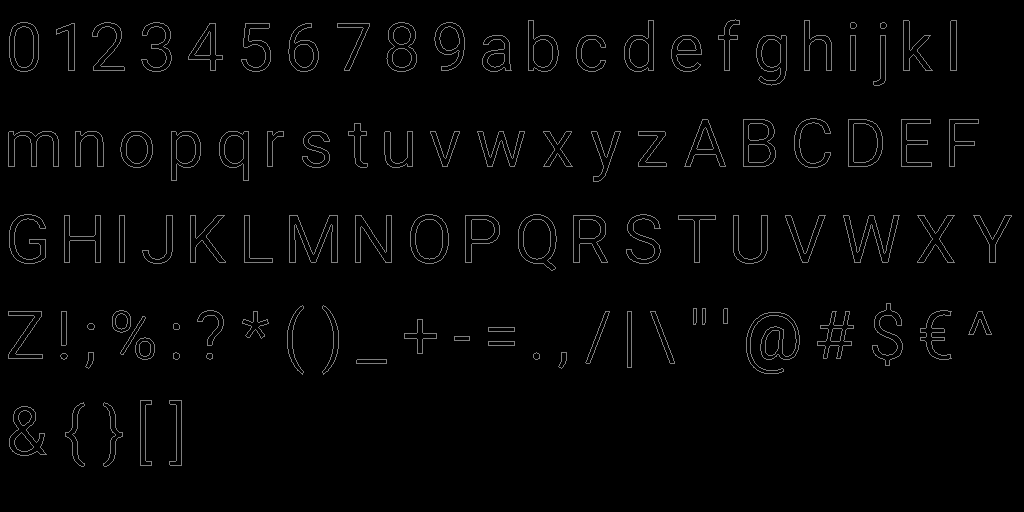
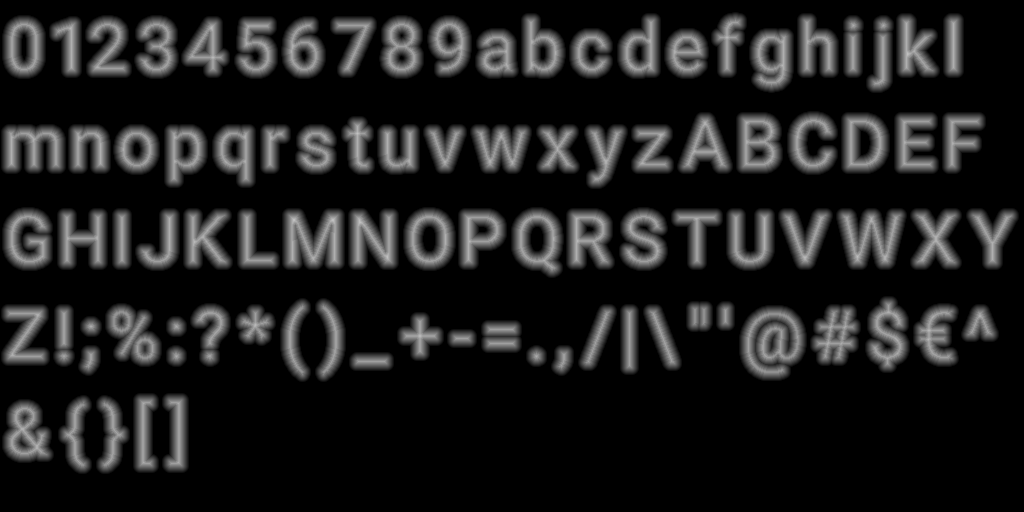
implement sdf font bitmap creation

diff --git a/src/graphics/font/sdf_bitmap.rs b/src/graphics/font/sdf_bitmap.rs
@@ -3,7 +3,7 @@ use std::collections::HashMap;
 use image::{DynamicImage, Luma, GrayImage};
 use rusttype::PositionedGlyph;
 
-use crate::{lz_core_warn, lz_core_err};
+use crate::{lz_core_warn, lz_core_err, math, lz_core_info};
 
 /// Signed distance field font bitmap
 pub struct SdfBitmap {
@@ -225,15 +225,19 @@ fn write_glyphs(
             register_bitmap_character(bitmap_characters, character, bitmap_builder, current_x, current_y, bitmap_width, bitmap_height, character_width, line_height);
 
             let glyph_buffer = create_glyph_binary_map(glyph, character_width as usize, character_height as usize, bitmap_builder);
+            let border_pixels: Vec<(usize, usize)> = get_border_pixels(&glyph_buffer);
 
             for x in 0..glyph_buffer.len() {
                 for y in 0..glyph_buffer[x].len() {
-                    if is_border_pixel(&glyph_buffer, x, y) {
-                        image_buffer.put_pixel(
-                            x as u32 + current_x,
-                            y as u32 + current_y + bounding_box.min.y as u32 - bitmap_builder.padding_y,
-                            Luma([127]),
-                        )
+                    match get_pixel_value(&glyph_buffer, &border_pixels, x, y, spread as f32) {
+                        Ok(v) => {
+                            image_buffer.put_pixel(
+                                x as u32 + current_x,
+                                y as u32 + current_y + bounding_box.min.y as u32 - bitmap_builder.padding_y,
+                                Luma([v]),
+                            )
+                        },
+                        Err(_) => (),
                     }
                 }
             }
@@ -296,4 +300,52 @@ fn create_glyph_binary_map(glyph: &PositionedGlyph<'_>, character_width: usize, 
     });
 
     glyph_pixels
+}
+
+fn get_distance_to_closest_border_pixel(border_pixels: &Vec<(usize, usize)>, target_x: usize, target_y: usize) -> f32 {
+    let mut closest: f32 = f32::MAX;
+
+    for coordinate in border_pixels.iter() {
+        let distance = math::distance(target_x, target_y, coordinate.0, coordinate.1);
+                
+        if distance < closest {
+            closest = distance;
+        }
+    }
+
+    closest
+}
+
+fn get_border_pixels(glyph_pixels: &Vec<Vec<bool>>) -> Vec<(usize, usize)> {
+    let mut result = vec![];
+    
+    for x in 0..glyph_pixels.len() {
+        for y in 0..glyph_pixels[x].len() {
+            if is_border_pixel(glyph_pixels, x, y) {
+                result.push((x, y));
+            }
+
+        }
+    }
+
+    result
+}
+
+fn get_pixel_value(glyph_pixels: &Vec<Vec<bool>>,  border_pixels: &Vec<(usize, usize)>, x: usize, y: usize, spread: f32) -> Result<u8, ()> {
+    if is_border_pixel(&glyph_pixels, x, y) {
+        return Ok(127);
+    } 
+
+    let distance = get_distance_to_closest_border_pixel(&border_pixels, x, y);
+
+    if distance > spread as f32 {
+        return Err(());
+    }
+
+    if glyph_pixels[x][y] {
+        return Ok(127 + (distance / spread as f32 * 128.0) as u8);
+    } else {
+        return Ok(127 - (distance / spread as f32 * 127.0) as u8);
+    }
+    
 }

diff --git a/src/math/math.rs b/src/math/math.rs
@@ -1,0 +1,6 @@
+pub fn distance(x1: usize, y1: usize, x2: usize, y2: usize) -> f32 {
+    let x = x1.abs_diff(x2) as f32;
+    let y = y1.abs_diff(y2) as f32;
+
+    (x.powi(2) + y.powi(2)).sqrt()
+}

diff --git a/src/main.rs b/src/main.rs
@@ -9,6 +9,7 @@ mod log;
 mod event;
 mod input;
 mod time;
+mod math;
 
 mod app;
 

diff --git a/src/math/mod.rs b/src/math/mod.rs
@@ -1,0 +1,3 @@
+mod math;
+
+pub use math::*;
